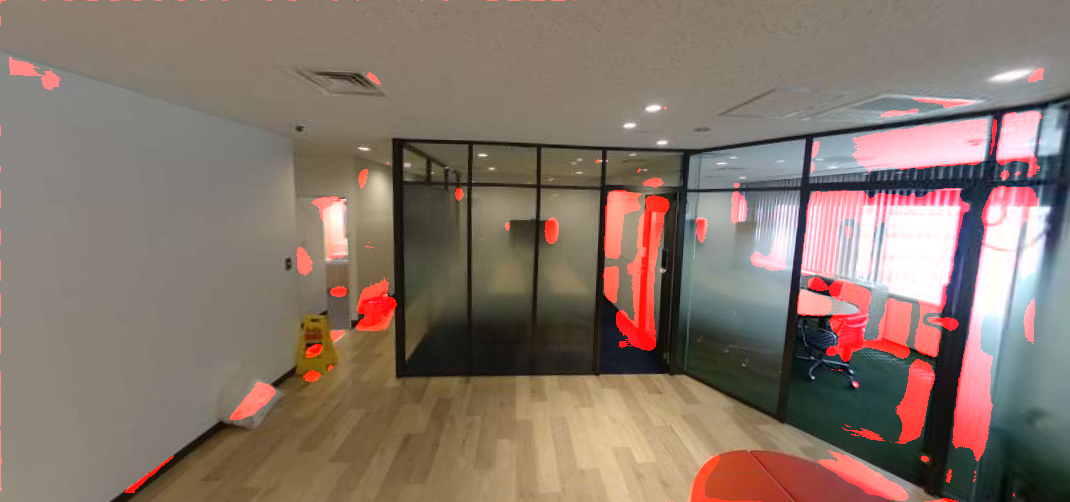
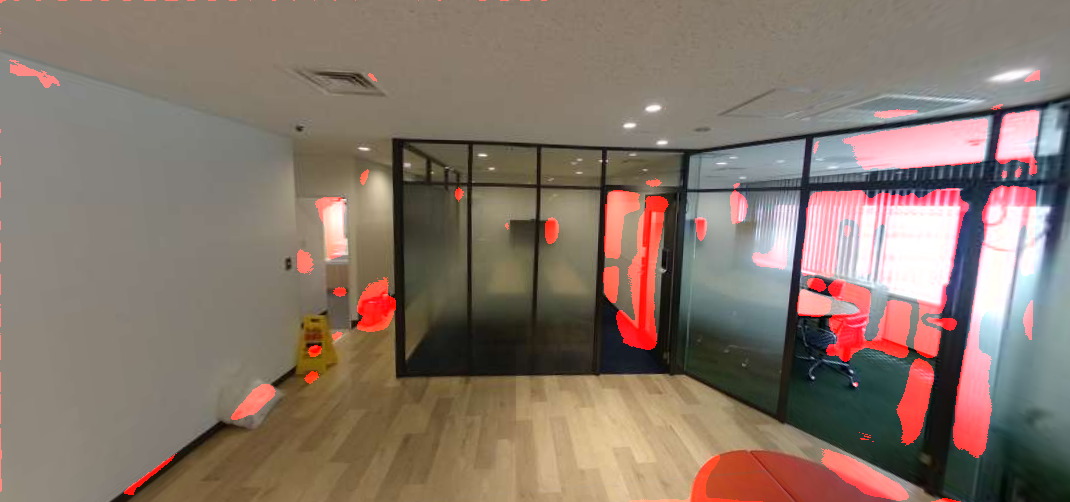
wip: 4日目終了

diff --git a/main.py b/main.py
@@ -31,15 +31,11 @@ def formatImage(img1, img2):
     gray1 = cv2.cvtColor(img1, cv2.COLOR_BGR2GRAY)
     gray2 = cv2.cvtColor(img2, cv2.COLOR_BGR2GRAY)
 
-    # # 画像の平滑化
-    # blurred1 = cv2.bilateralFilter(gray1, 20, 22, 20)
-    # blurred2 = cv2.bilateralFilter(gray2, 20, 22, 20)
+    # 画像の平滑化
+    blurred1 = cv2.bilateralFilter(gray1, 20, 22, 20)
+    blurred2 = cv2.bilateralFilter(gray2, 20, 22, 20)
 
-    # # ガウシアンブラーを適応
-    # gray1 = cv2.GaussianBlur(gray1, (5, 5), 0)
-    # gray2 = cv2.GaussianBlur(gray2, (5, 5), 0)
-
-    return (gray1, gray2)
+    return (blurred1, blurred2)
 
 def matchImage(img1, img2):
     # 特徴点の検出
@@ -56,10 +52,10 @@ def matchImage(img1, img2):
     matches = bf.match(des1, des2)
     matches = sorted(matches, key=lambda x: x.distance)
 
-    # マッチング点の座標を抽出
+    # 特徴点の座標を格納する配列の初期化
     points1 = np.zeros((len(matches), 2), dtype=np.float32)
     points2 = np.zeros((len(matches), 2), dtype=np.float32)
-
+    # 特徴点の座標を格納
     for i, match in enumerate(matches):
         points1[i, :] = kp1[match.queryIdx].pt
         points2[i, :] = kp2[match.trainIdx].pt
@@ -70,7 +66,6 @@ def matchImage(img1, img2):
     # 画像のスケールを変更する
     height, width = img2.shape[:2]
     transformedImg = cv2.warpPerspective(img1, H, (width, height))
-
     return (transformedImg, H)
 
 def processImage(img1, img2):
@@ -83,7 +78,6 @@ def processImage(img1, img2):
     equalizedImg1 = clahe.apply(blurredImg1)
     clahe = cv2.createCLAHE(clipLimit=2.0, tileGridSize=(8, 8))
     equalizedImg2 = clahe.apply(blurredImg2)
-
     return (equalizedImg1, equalizedImg2)
     
 def combineOriginal(img1, img2, H):
